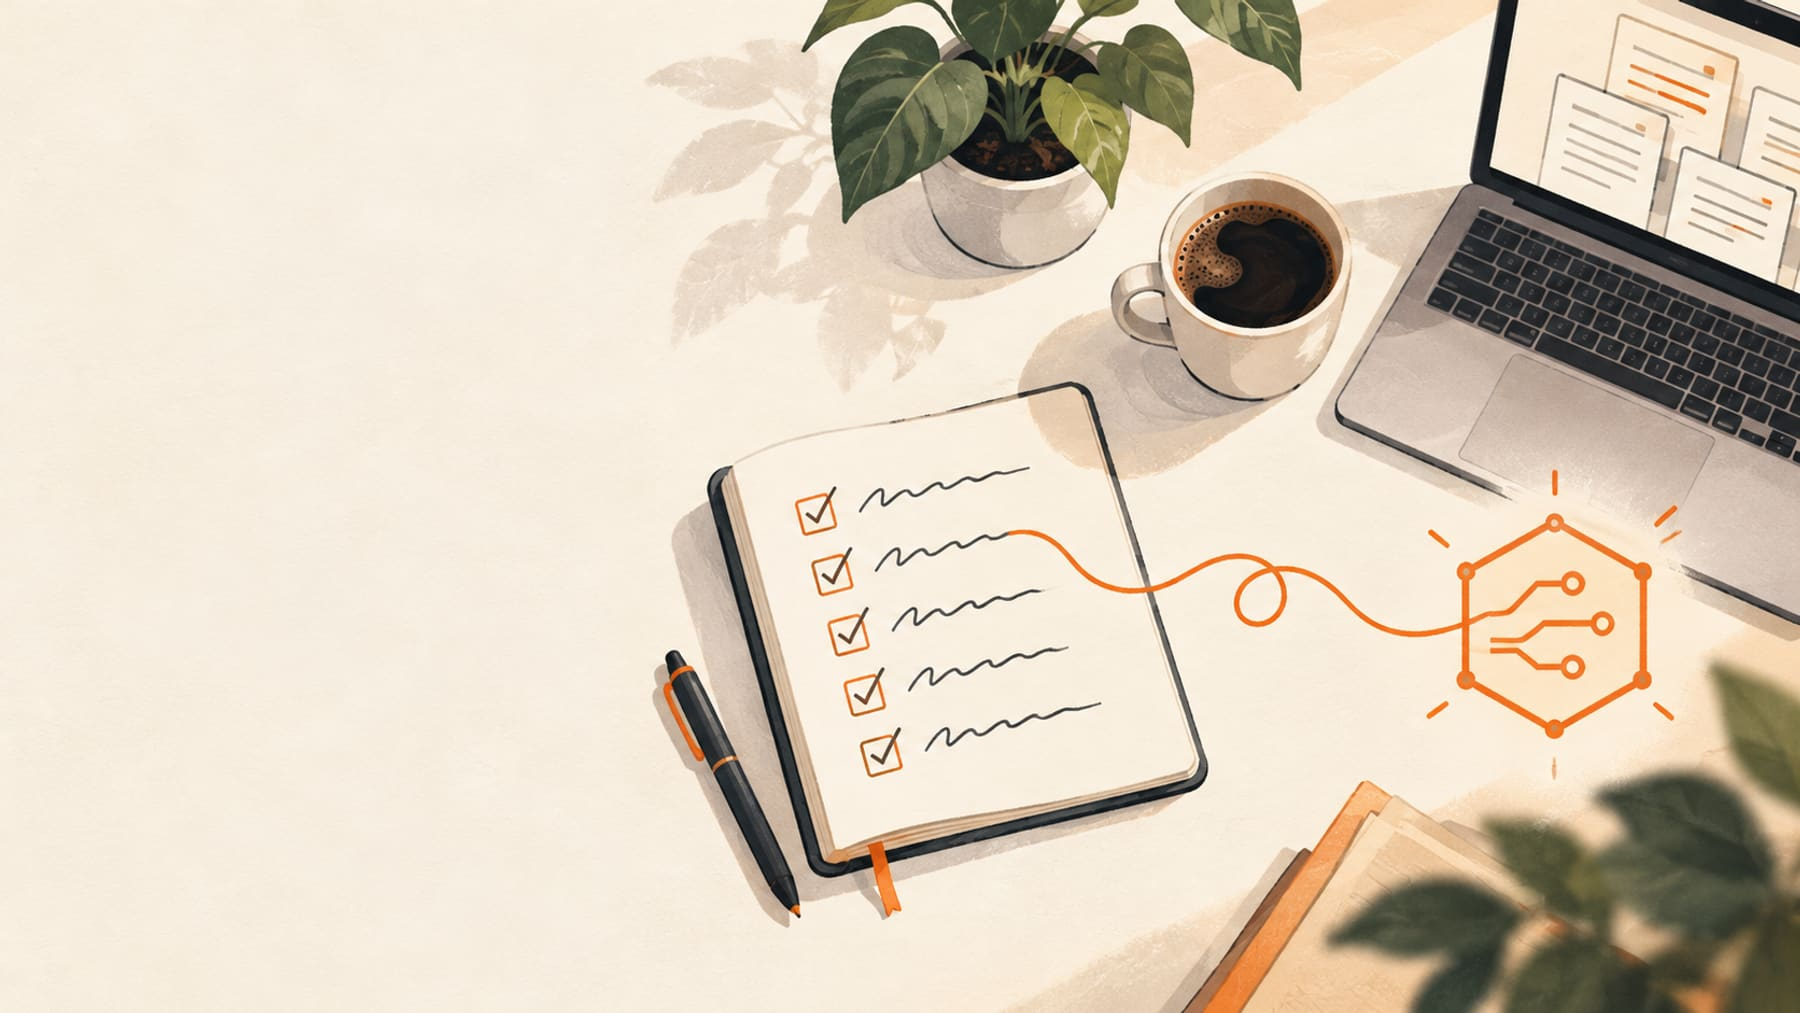
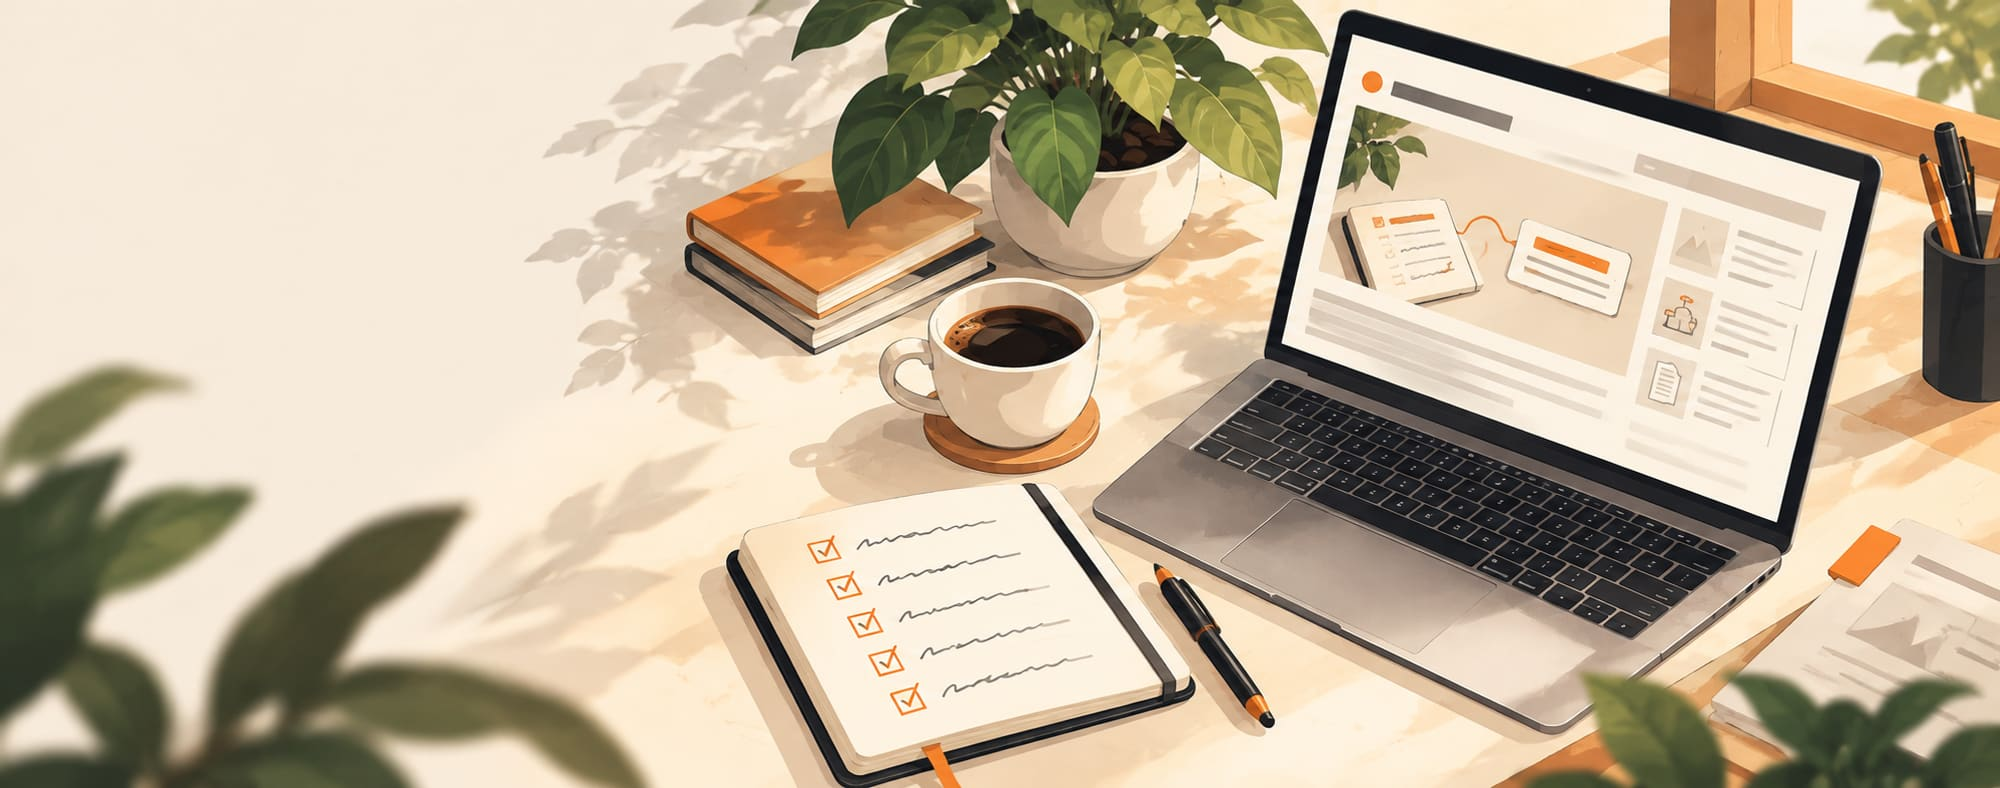
feat(website): nouvelle image de bandeau du blog, titre plus petit

diff --git a/website/src/styles/blog.css b/website/src/styles/blog.css
@@ -92,11 +92,11 @@
 
 /* Liste du blog : bandeau, filtres, grille et colonne latérale */
 .sr-only { position: absolute; width: 1px; height: 1px; margin: -1px; padding: 0; overflow: hidden; clip: rect(0 0 0 0); white-space: nowrap; border: 0; }
-.bhero { position: relative; overflow: hidden; border-bottom: 1px solid var(--line); background: var(--bg) url('/img/blog/hero.jpg') right center / auto 100% no-repeat; }
-.bhero::before { content: ''; position: absolute; inset: 0; background: linear-gradient(90deg, var(--bg) 0%, var(--bg) 38%, color-mix(in srgb, var(--bg) 70%, transparent) 62%, transparent 100%); }
-.bhero-in { position: relative; display: grid; gap: 16px; padding-top: 64px; padding-bottom: 56px; max-width: 1180px; }
+.bhero { position: relative; overflow: hidden; border-bottom: 1px solid var(--line); background: var(--bg) url('/img/blog/hero.jpg') right center / cover no-repeat; }
+.bhero::before { content: ''; position: absolute; inset: 0; background: linear-gradient(90deg, var(--bg) 0%, var(--bg) 30%, color-mix(in srgb, var(--bg) 60%, transparent) 50%, transparent 72%); }
+.bhero-in { position: relative; display: grid; gap: 16px; padding-top: 72px; padding-bottom: 72px; max-width: 1180px; }
 .bhero-eyebrow { margin: 0; font-size: 0.8rem; font-weight: 700; letter-spacing: 0.14em; text-transform: uppercase; color: var(--accent-text); }
-.bhero h1 { max-width: 20ch; font-size: clamp(2rem, 4vw, 3.2rem); line-height: 1.08; text-wrap: balance; }
+.bhero h1 { max-width: 28ch; font-size: clamp(1.7rem, 2.9vw, 2.5rem); line-height: 1.08; text-wrap: balance; }
 .bhero h1 em { font-style: normal; color: var(--accent-text); }
 .bhero-lead { margin: 0; max-width: 56ch; color: var(--text2); font-size: 1.1rem; }
 .blog-search { position: relative; display: flex; align-items: center; width: min(100%, 520px); margin-top: 8px; }
